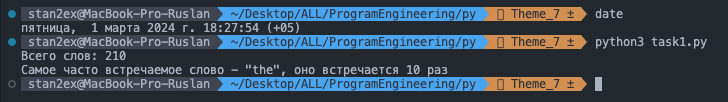
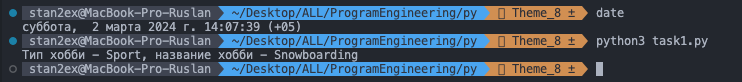
add task1

diff --git a/py/task1.py b/py/task1.py
@@ -1,17 +1,7 @@
-f = open('task1.txt', 'r')
-text = str(f.readlines()).replace(',','').replace('.','').replace('\\n','').replace("'",'').lower()
-text1 = list(text.split(' '))
-example = 0
-word = ""
-hWord = 0
-for i in text1:
-    for y in text1:
-        if i == y:
-            example += 1
-        if example > hWord:
-            hWord = example
-            word = i
-    example = 0
-print("Всего слов:", len(text1))
-print(f'Самое часто встречаемое слово - "{word}", оно встречается {hWord} раз')
-f.close
+class Hobbie:
+    def __init__(self, type, name):
+        self.type = type
+        self.name = name
+
+my_car = Hobbie("Sport", "Snowboarding")
+print(f'Тип хобби - {my_car.type}, название хобби - {my_car.name}')

diff --git a/README.md b/README.md
@@ -1,5 +1,5 @@
-# Тема 7. Работа с файлами (ввод, вывод)
-Отчет по Теме #7 выполнил(а):
+# Тема 8. Введение в ООП
+Отчет по Теме #8 выполнил(а):
 - Шайдуллин Руслан Дамирович
 - ЗПИЭ-21-1
 
@@ -17,29 +17,19 @@
 - к.э.н., доцент Панов М.А.
 
 ## Самостоятельная работа №1
-### Найдите в интернете любую статью (объем статьи не менее 200 слов), скопируйте ее содержимое в файл и напишите программу, которая считает количество слов в текстовом файле и определит самое часто встречающееся слово. Результатом выполнения задачи будет: скриншот файла со статьей, листинг кода, и вывод в консоль, в котором будет указана вся необходимая информация.
+### Самостоятельно создайте класс и его объект. Они должны отличаться, от тех, что указаны в теоретическом материале (методичке) и лабораторных заданиях. Результатом выполнения задания будет листинг кода и получившийся вывод консоли.
 
 ```python
-f = open('task1.txt', 'r')
-text = str(f.readlines()).replace(',','').replace('.','').replace('\\n','').replace("'",'').lower()
-text1 = list(text.split(' '))
-example = 0
-word = ""
-hWord = 0
-for i in text1:
-    for y in text1:
-        if i == y:
-            example += 1
-        if example > hWord:
-            hWord = example
-            word = i
-    example = 0
-print("Всего слов:", len(text1))
-print(f'Самое часто встречаемое слово - "{word}", оно встречается {hWord} раз')
-f.close
+class Hobbie:
+    def __init__(self, type, name):
+        self.type = type
+        self.name = name
+
+my_car = Hobbie("Sport", "Snowboarding")
+print(f'Тип хобби - {my_car.type}, название хобби - {my_car.name}')
 ```
 ### Результат.
-![Меню](https://github.com/stratch1989/ProgramEngineering/blob/Theme_7/img/task1.png)
+![Меню](https://github.com/stratch1989/ProgramEngineering/blob/Theme_8/img/task1.png)
 
 ## Самостоятельная работа №2
 ### У вас появилась потребность в ведении книги расходов, посмотрев все существующие варианты вы пришли к выводу что вас ничего не устраивает и нужно все делать самому. Напишите программу для учета расходов. Программа должна позволять вводить информацию о расходах, сохранять ее в файл и выводить существующие данные в консоль. Ввод информации происходит через консоль. Результатом выполнения задачи будет: скриншот файла с учетом расходов, листинг кода, и вывод в консоль, с демонстрацией работоспособности программы.
